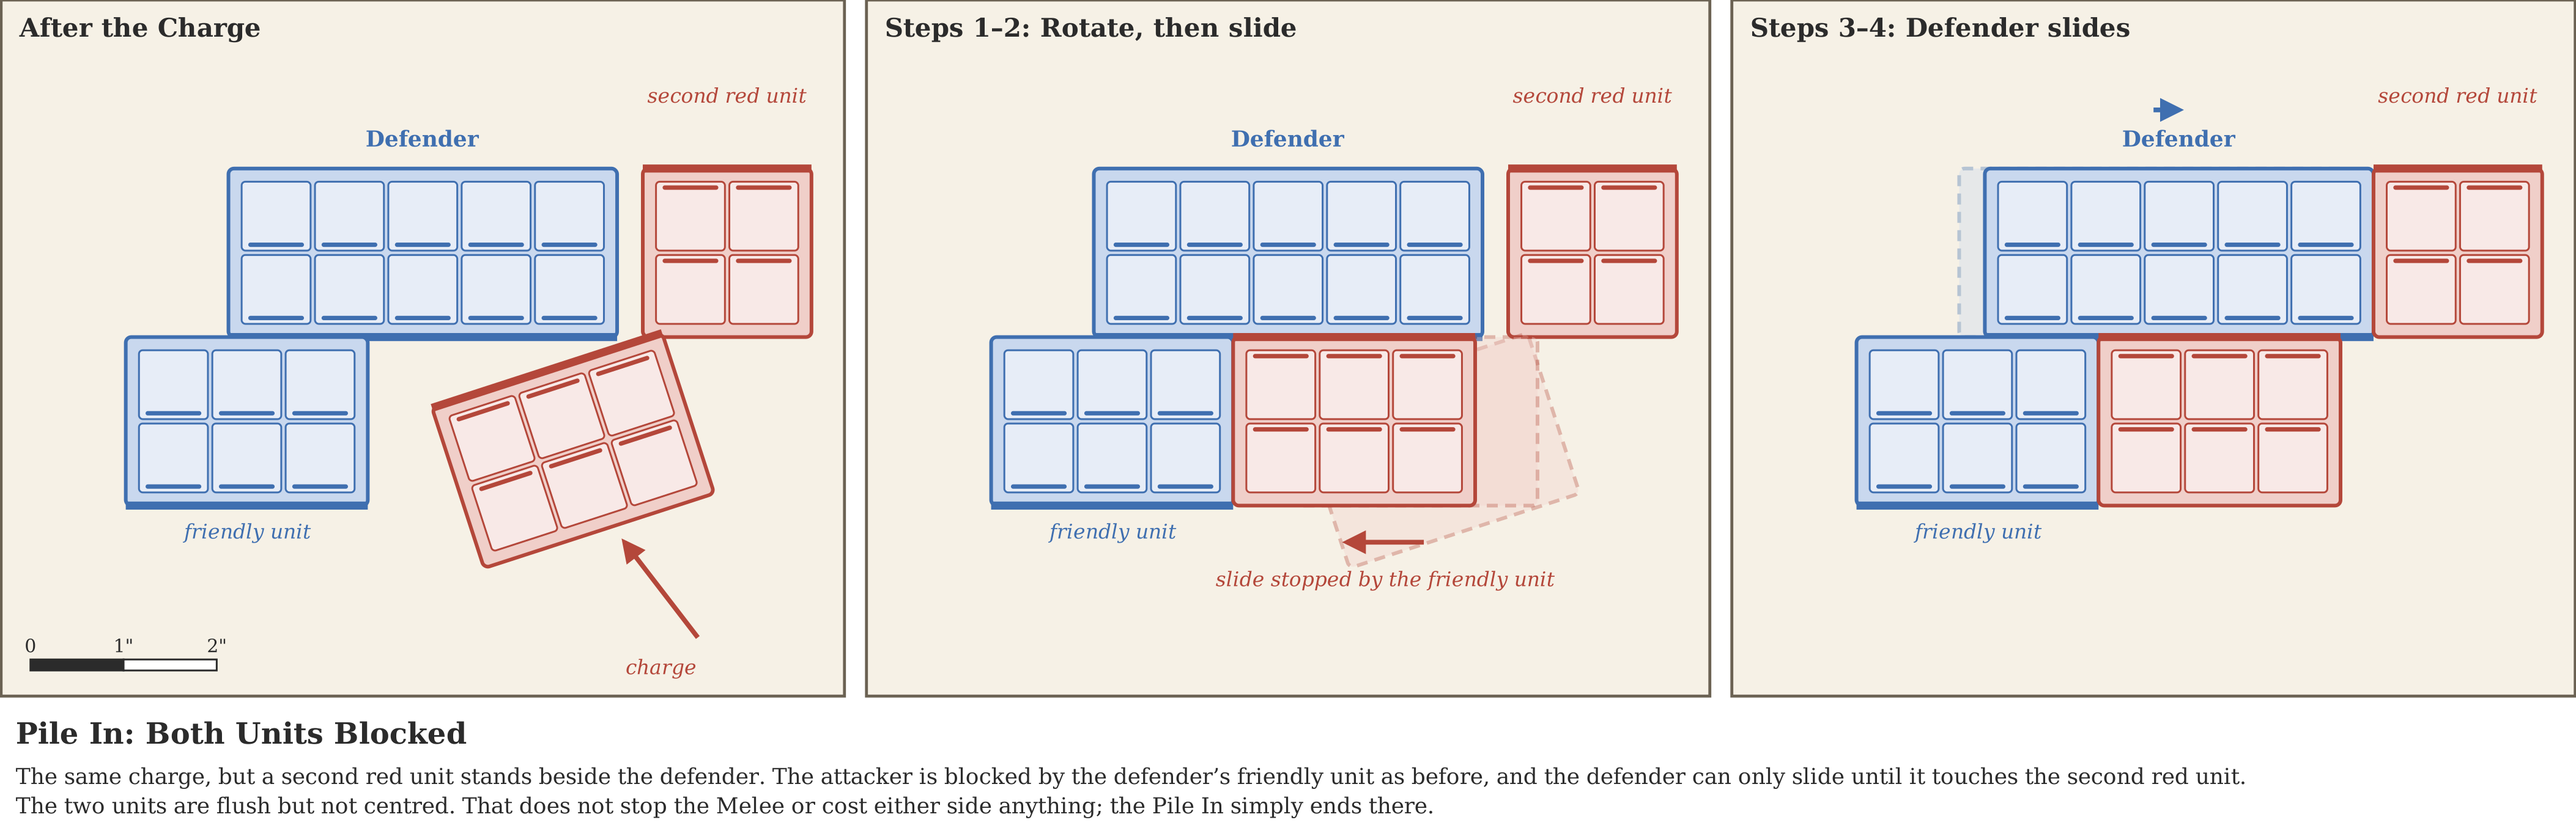
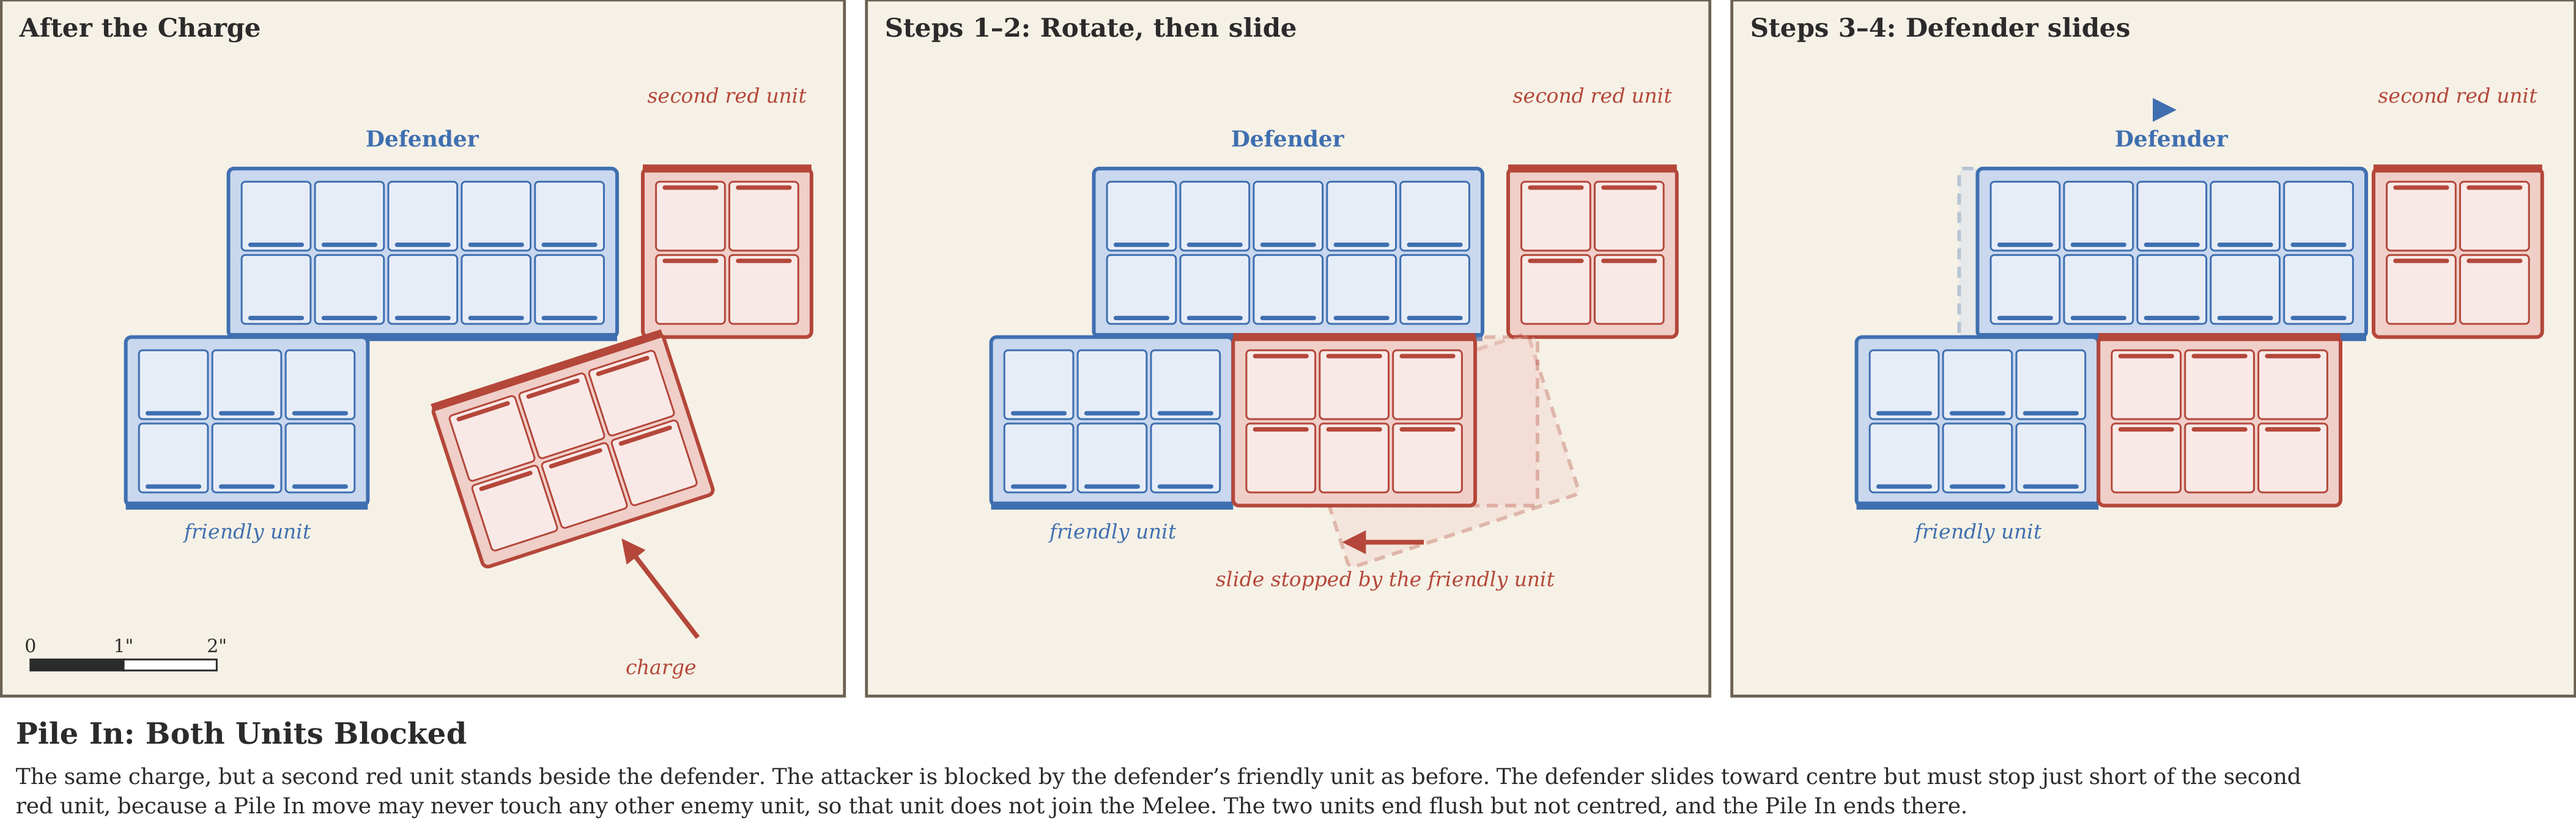
Pile In diagram: defender stops short of the uninvolved enemy unit
Claude-Session: https://claude.ai/code/session_017qtE7ipkmheXKkdp74hFts

Changed region(s): [[0.7464, 0.217, 0.933, 0.403], [0.0, 0.9299, 0.9019, 0.9919], [0.8086, 0.155, 0.8708, 0.186]]

diff --git a/diagrams/pile_in_blocked.py b/diagrams/pile_in_blocked.py
@@ -15,7 +15,7 @@ def scenario(name, title, caption, second_red):
     stop = None
     if second_red:
         r2x = 198                           # second red unit right of the defender
-        stop = r2x - 23 - dw / 2            # defender can only slide until it touches it
+        stop = r2x - 23 - dw / 2 - 2        # defender stops just short: Pile In moves may not touch another enemy unit
     dx_end = ax_slide if stop is None else min(ax_slide, stop)
     panels = ['After the Charge', 'Steps 1–2: Rotate, then slide', 'Steps 3–4: Defender slides']
     for k, t in enumerate(panels):
@@ -55,5 +55,5 @@ scenario('pile_in_blocked', 'Pile In: Attacker Blocked', [
     'get centred, so the defender, which is not touching any other enemy unit, slides to centre itself on the attacker (step 4).'], False)
 scenario('pile_in_blocked_twice', 'Pile In: Both Units Blocked', [
     'The same charge, but a second red unit stands beside the defender. The attacker is blocked by the defender’s friendly unit as',
-    'before, and the defender can only slide until it touches the second red unit. The two units are flush but not centred. That does',
-    'not stop the Melee or cost either side anything; the Pile In simply ends there.'], True)
+    'before. The defender slides toward centre but must stop just short of the second red unit, because a Pile In move may never',
+    'touch any other enemy unit, so that unit does not join the Melee. The two units end flush but not centred, and the Pile In ends there.'], True)
